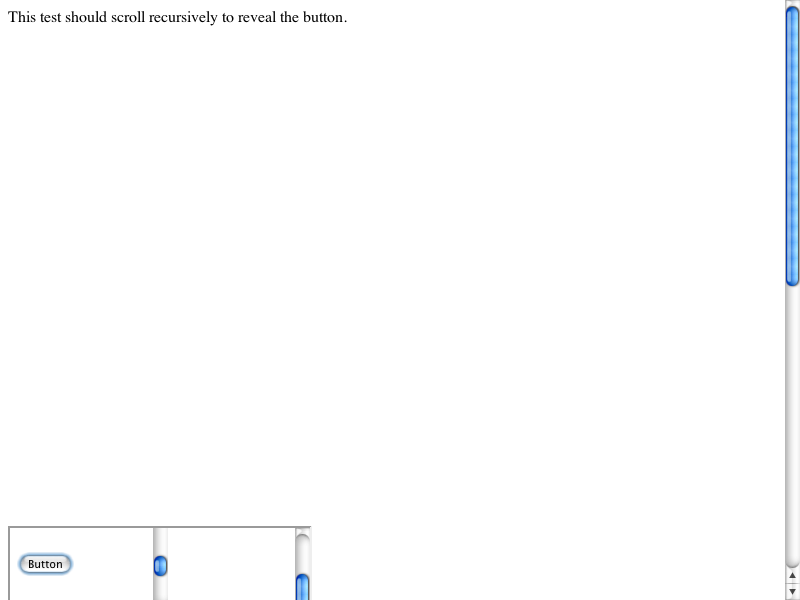
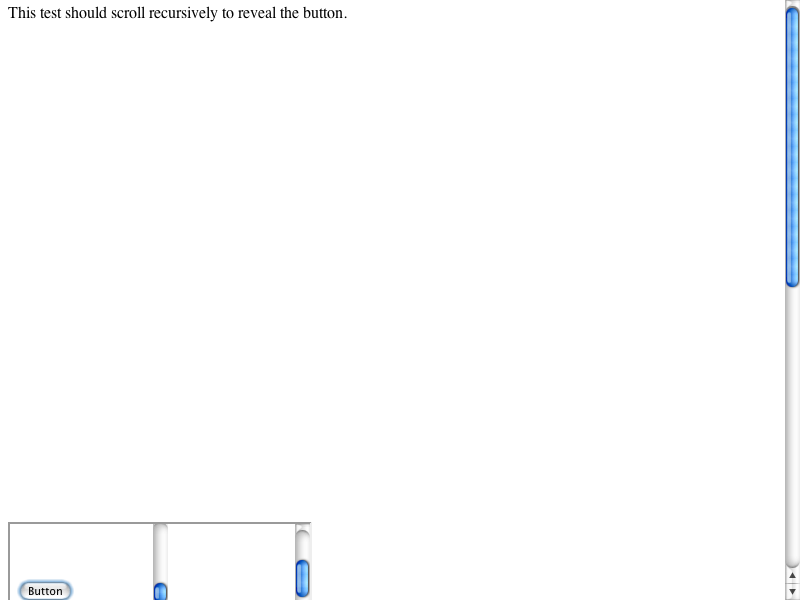
LayoutTests:
Reviewed by Darin.
        
        - <rdar://problem/4820817> Autoscroll is broken in Mail.app (message jumps around when trying to select text)

        * fast/overflow/scrollRevealButton-expected.checksum:
        * fast/overflow/scrollRevealButton-expected.png:
        * fast/overflow/scrollRevealButton-expected.txt:

WebCore:

        Reviewed by Darin.
        
        - fixed <rdar://problem/4820817> Autoscroll is broken in Mail.app (message jumps around when trying to select text)
                
        Handle scrolling external scrollviews around the webview during
        autoscroll or when scrolling into view.
        
        This should also restore performance on BenchJS test 6 lost due to Tim's partial fix.

        * page/FrameView.cpp:
        (WebCore::FrameView::scrollRectIntoViewRecursively):
        * page/FrameView.h:
        * platform/ScrollView.h:
        * platform/gdk/ScrollViewGdk.cpp:
        (WebCore::ScrollView::visibleContentRectConsideringExternalScrollers):
        (WebCore::ScrollView::scrollRectIntoViewRecursively):
        * platform/mac/ScrollViewMac.mm:
        (WebCore::ScrollView::visibleContentRect):
        (WebCore::ScrollView::visibleContentRectConsideringExternalScrollers):
        (WebCore::ScrollView::scrollRectIntoViewRecursively):
        (WebCore::ScrollView::updateContents):
        * platform/qt/ScrollViewQt.cpp:
        (WebCore::ScrollView::visibleContentRectConsideringExternalScrollers):
[…]

diff --git a/WebCore/platform/mac/ScrollViewMac.mm b/WebCore/platform/mac/ScrollViewMac.mm
@@ -79,12 +79,28 @@ int ScrollView::visibleHeight() const
 
 FloatRect ScrollView::visibleContentRect() const
 {
+    NSScrollView *view = (NSScrollView *)getView(); 
+      
+    BEGIN_BLOCK_OBJC_EXCEPTIONS; 
+    if ([view isKindOfClass:[NSScrollView class]]) 
+        return [view documentVisibleRect]; 
+    else 
+        return [view visibleRect]; 
+    END_BLOCK_OBJC_EXCEPTIONS; 
+
+    return FloatRect();
+}
+
+FloatRect ScrollView::visibleContentRectConsideringExternalScrollers() const
+{
     BEGIN_BLOCK_OBJC_EXCEPTIONS;
     if (NSView *docView = getDocumentView())
         return [docView visibleRect];
     END_BLOCK_OBJC_EXCEPTIONS;
+
     return FloatRect();
 }
+
 
 int ScrollView::contentsWidth() const
 {
@@ -160,11 +176,9 @@ void ScrollView::scrollBy(int dx, int dy)
     setContentsPos(contentsX() + dx, contentsY() + dy);
 }
 
-void ScrollView::scrollPointRecursively(int x, int y)
+void ScrollView::scrollRectIntoViewRecursively(const IntRect& r)
 { 
-    x = (x < 0) ? 0 : x;
-    y = (y < 0) ? 0 : y;
-    NSPoint p = NSMakePoint(x,y);
+    NSRect rect = r;
 
     BEGIN_BLOCK_OBJC_EXCEPTIONS;
     NSView *docView;
@@ -178,8 +192,7 @@ void ScrollView::scrollPointRecursively(int x, int y)
         if ([view isKindOfClass:[NSClipView class]]) {
             NSClipView *clipView = (NSClipView *)view;
             NSView *documentView = [clipView documentView];
-            NSPoint viewPoint = [clipView constrainScrollPoint:[documentView convertPoint:p fromView:originalView]];
-            [documentView scrollPoint:viewPoint];
+            [documentView scrollRectToVisible:[documentView convertRect:rect fromView:originalView]];
         }
 
         view = [view superview];
@@ -338,10 +351,12 @@ void ScrollView::updateContents(const IntRect &rect, bool now)
     if ([view isKindOfClass:[NSScrollView class]])
         view = getDocumentView();
 
+    NSRect visibleRect = visibleContentRect();
+
     // Checking for rect visibility is an important optimization for the case of
     // Select All of a large document. AppKit does not do this check, and so ends
     // up building a large complicated NSRegion if we don't perform the check.
-    NSRect dirtyRect = NSIntersectionRect(rect, [view visibleRect]);
+    NSRect dirtyRect = NSIntersectionRect(rect, visibleRect);
     if (!NSIsEmptyRect(dirtyRect)) {
         [view setNeedsDisplayInRect:dirtyRect];
         if (now) {

diff --git a/WebCore/rendering/RenderLayer.cpp b/WebCore/rendering/RenderLayer.cpp
@@ -759,24 +759,27 @@ void RenderLayer::scrollRectToVisible(const IntRect &rect, const ScrollAlignment
             parentLayer = m_object->parent()->enclosingLayer();
     } else {
         if (frameView) {
-            IntRect viewRect = enclosingIntRect(frameView->visibleContentRect());
-            IntRect r = getRectToExpose(viewRect, rect, alignX, alignY);
-            
-            xOffset = r.x();
-            yOffset = r.y();
-            // Adjust offsets if they're outside of the allowable range.
-            xOffset = max(0, min(frameView->contentsWidth(), xOffset));
-            yOffset = max(0, min(frameView->contentsHeight(), yOffset));
-
             if (m_object->document() && m_object->document()->ownerElement() && m_object->document()->ownerElement()->renderer()) {
+                IntRect viewRect = enclosingIntRect(frameView->visibleContentRect());
+                IntRect r = getRectToExpose(viewRect, rect, alignX, alignY);
+                
+                xOffset = r.x();
+                yOffset = r.y();
+                // Adjust offsets if they're outside of the allowable range.
+                xOffset = max(0, min(frameView->contentsWidth(), xOffset));
+                yOffset = max(0, min(frameView->contentsHeight(), yOffset));
+
                 frameView->setContentsPos(xOffset, yOffset);
                 parentLayer = m_object->document()->ownerElement()->renderer()->enclosingLayer();
                 newRect.setX(rect.x() - frameView->contentsX() + frameView->x());
                 newRect.setY(rect.y() - frameView->contentsY() + frameView->y());
             } else {
+                IntRect viewRect = enclosingIntRect(frameView->visibleContentRectConsideringExternalScrollers());
+                IntRect r = getRectToExpose(viewRect, rect, alignX, alignY);
+                
                 // If this is the outermost view that RenderLayer needs to scroll, then we should scroll the view recursively
                 // Other apps, like Mail, rely on this feature.
-                frameView->scrollPointRecursively(xOffset, yOffset);
+                frameView->scrollRectIntoViewRecursively(r);
             }
         }
     }

diff --git a/WebCore/platform/gdk/ScrollViewGdk.cpp b/WebCore/platform/gdk/ScrollViewGdk.cpp
@@ -116,6 +116,12 @@ FloatRect ScrollView::visibleContentRect() const
     return contentRect;
 }
 
+FloatRect ScrollView::visibleContentRectConsideringExternalScrollers() const
+{
+    // external scrollers not supported for now
+    return visibleContentRect();
+}
+
 void ScrollView::setContentsPos(int newX, int newY)
 {
     int dx = newX - contentsX();
@@ -274,7 +280,7 @@ void ScrollView::removeChild(Widget*)
     notImplementedGdk();
 }
 
-void ScrollView::scrollPointRecursively(int x, int y)
+void ScrollView::scrollRectIntoViewRecursively(const IntRect&)
 {
     notImplementedGdk();
 }
@@ -308,7 +314,7 @@ IntPoint ScrollView::windowToContents(const IntPoint& point) const
 }
 
 IntPoint ScrollView::contentsToWindow(const IntPoint& point) const
-{
+`{
     notImplementedGdk();
     return point;
 }

diff --git a/WebCore/platform/qt/ScrollViewQt.cpp b/WebCore/platform/qt/ScrollViewQt.cpp
@@ -106,6 +106,12 @@ FloatRect ScrollView::visibleContentRect() const
                      visibleHeight());
 }
 
+FloatRect ScrollView::visibleContentRectConsideringExternalScrollers() const
+{
+    // external scrollers not supported for now
+    return visibleContentRect();
+}
+
 void ScrollView::setContentsPos(int newX, int newY)
 {
     if (!m_area)
@@ -290,8 +296,11 @@ void ScrollView::removeChild(Widget* child)
     child->hide();
 }
 
-void ScrollView::scrollPointRecursively(int x, int y)
+void ScrollView::scrollRectIntoViewRecursively(const IntRect& r)
 {
+    int x = r.x();
+    int y = r.y();
+
     x = (x < 0) ? 0 : x;
     y = (y < 0) ? 0 : y;
 

diff --git a/WebCore/platform/ScrollView.h b/WebCore/platform/ScrollView.h
@@ -50,6 +50,7 @@ namespace WebCore {
         int visibleWidth() const;
         int visibleHeight() const;
         FloatRect visibleContentRect() const;
+        FloatRect visibleContentRectConsideringExternalScrollers() const;
 
         int contentsWidth() const;
         int contentsHeight() const;
@@ -57,7 +58,7 @@ namespace WebCore {
         int contentsY() const;
         IntSize scrollOffset() const;
         void scrollBy(int dx, int dy);
-        virtual void scrollPointRecursively(int dx, int dy);
+        virtual void scrollRectIntoViewRecursively(const IntRect&);
 
         virtual void setContentsPos(int x, int y);
 

diff --git a/WebCore/platform/win/TemporaryLinkStubs.cpp b/WebCore/platform/win/TemporaryLinkStubs.cpp
@@ -346,7 +346,7 @@ bool ResourceHandle::loadsBlocked() { notImplemented(); return false; }
 
 void ScrollView::addChild(Widget*) { notImplemented(); }
 void ScrollView::removeChild(Widget*) { notImplemented(); }
-void ScrollView::scrollPointRecursively(int x, int y) { notImplemented(); }
+void ScrollView::scrollRectIntoViewRecursively(const IntRect&) { notImplemented(); }
 bool ScrollView::inWindow() const { notImplemented(); return true; }
 void ScrollView::paint(GraphicsContext*, const IntRect&) { notImplemented(); }
 void ScrollView::wheelEvent(PlatformWheelEvent&) { notImplemented(); }

diff --git a/WebCore/page/FrameView.cpp b/WebCore/page/FrameView.cpp
@@ -603,11 +603,11 @@ void FrameView::restoreScrollbar()
     suppressScrollbars(false);
 }
 
-void FrameView::scrollPointRecursively(int x, int y)
+void FrameView::scrollRectIntoViewRecursively(const IntRect& r)
 {
     if (frame()->prohibitsScrolling())
         return;
-    ScrollView::scrollPointRecursively(x, y);
+    ScrollView::scrollRectIntoViewRecursively(r);
 }
 
 void FrameView::setContentsPos(int x, int y)

diff --git a/WebCore/page/FrameView.h b/WebCore/page/FrameView.h
@@ -110,7 +110,7 @@ public:
     IntRect windowClipRect(bool clipToContents) const;
     IntRect windowClipRectForLayer(const RenderLayer*, bool clipToLayerContents) const;
 
-    virtual void scrollPointRecursively(int x, int y);
+    virtual void scrollRectIntoViewRecursively(const IntRect& r);
     virtual void setContentsPos(int x, int y);
 
     String mediaType() const;

diff --git a/WebCore/platform/win/ScrollViewWin.cpp b/WebCore/platform/win/ScrollViewWin.cpp
@@ -103,6 +103,12 @@ FloatRect ScrollView::visibleContentRect() const
     return contentRect;
 }
 
+FloatRect ScrollView::visibleContentRectConsideringExternalScrollers() const
+{
+    // external scrollers not supported for now
+    return visibleContentRect();
+}
+
 void ScrollView::setContentsPos(int newX, int newY)
 {
     int dx = newX - contentsX();
